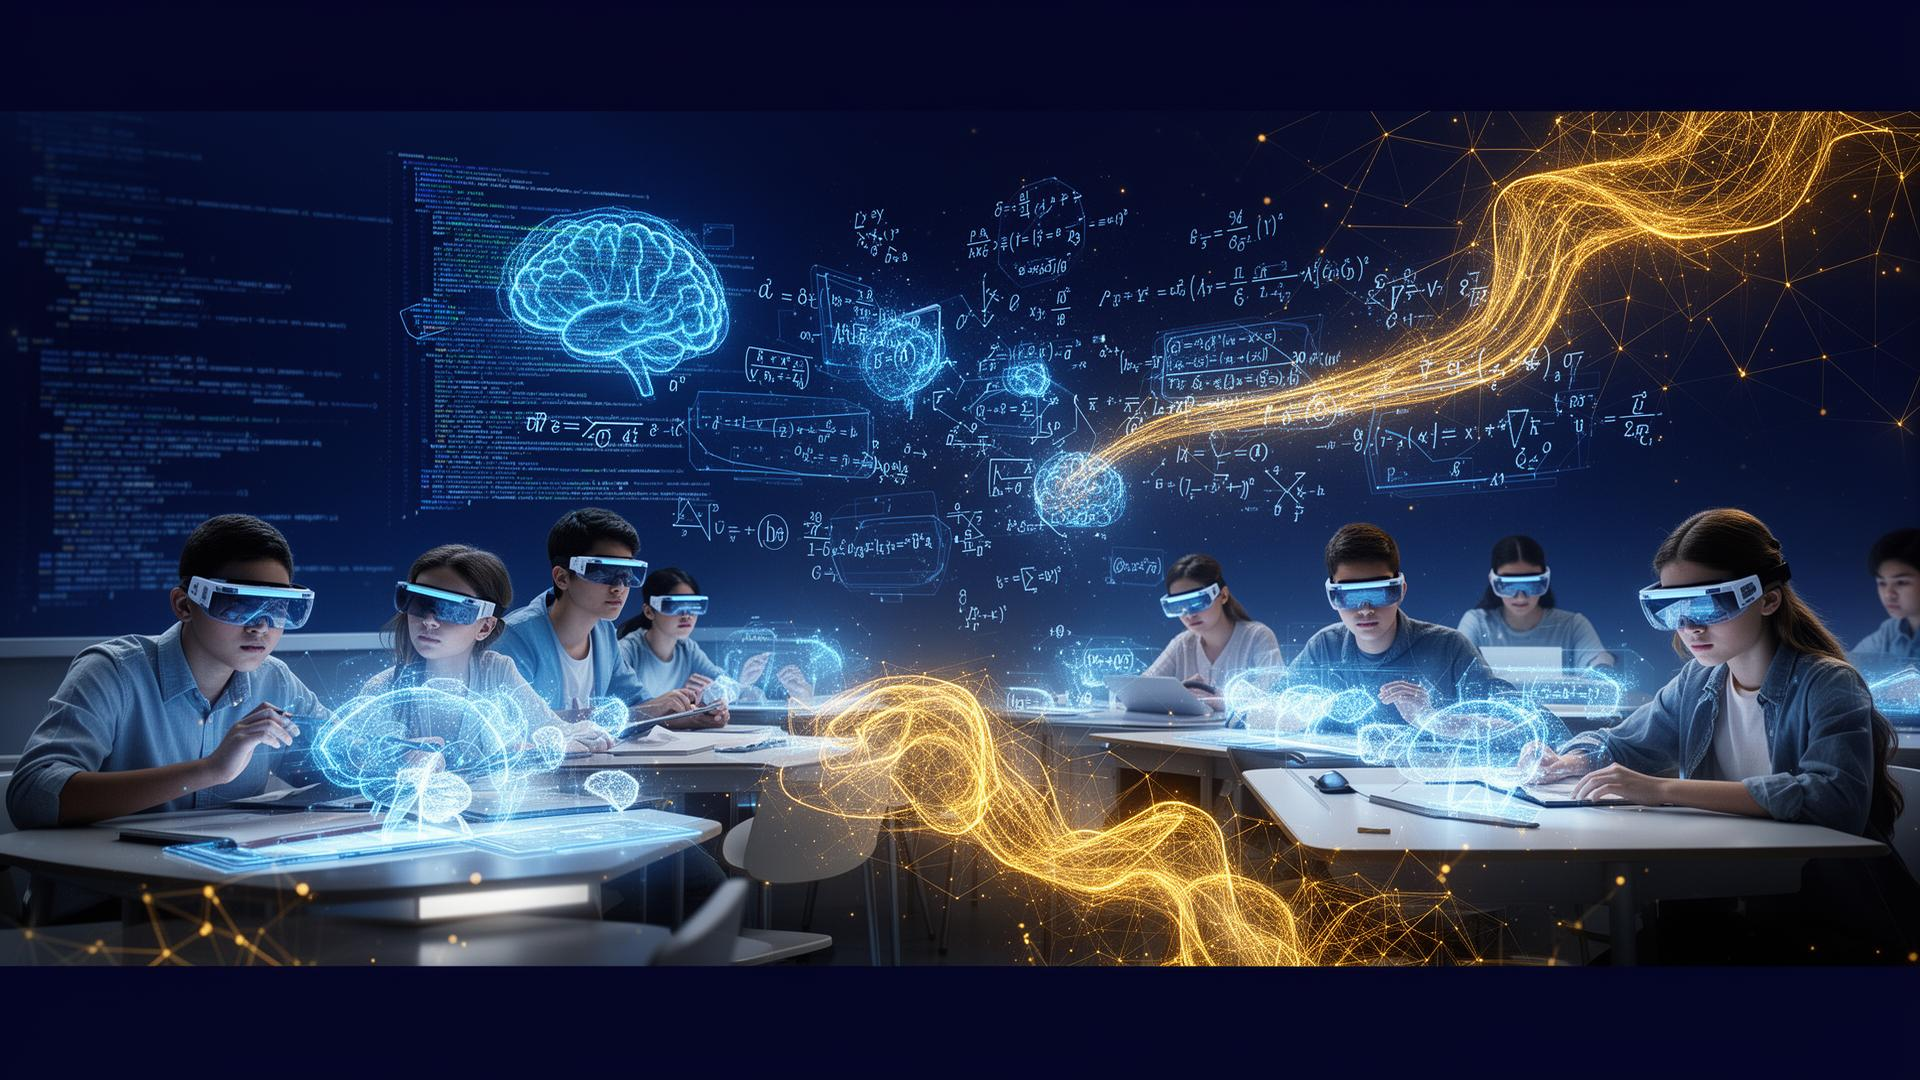
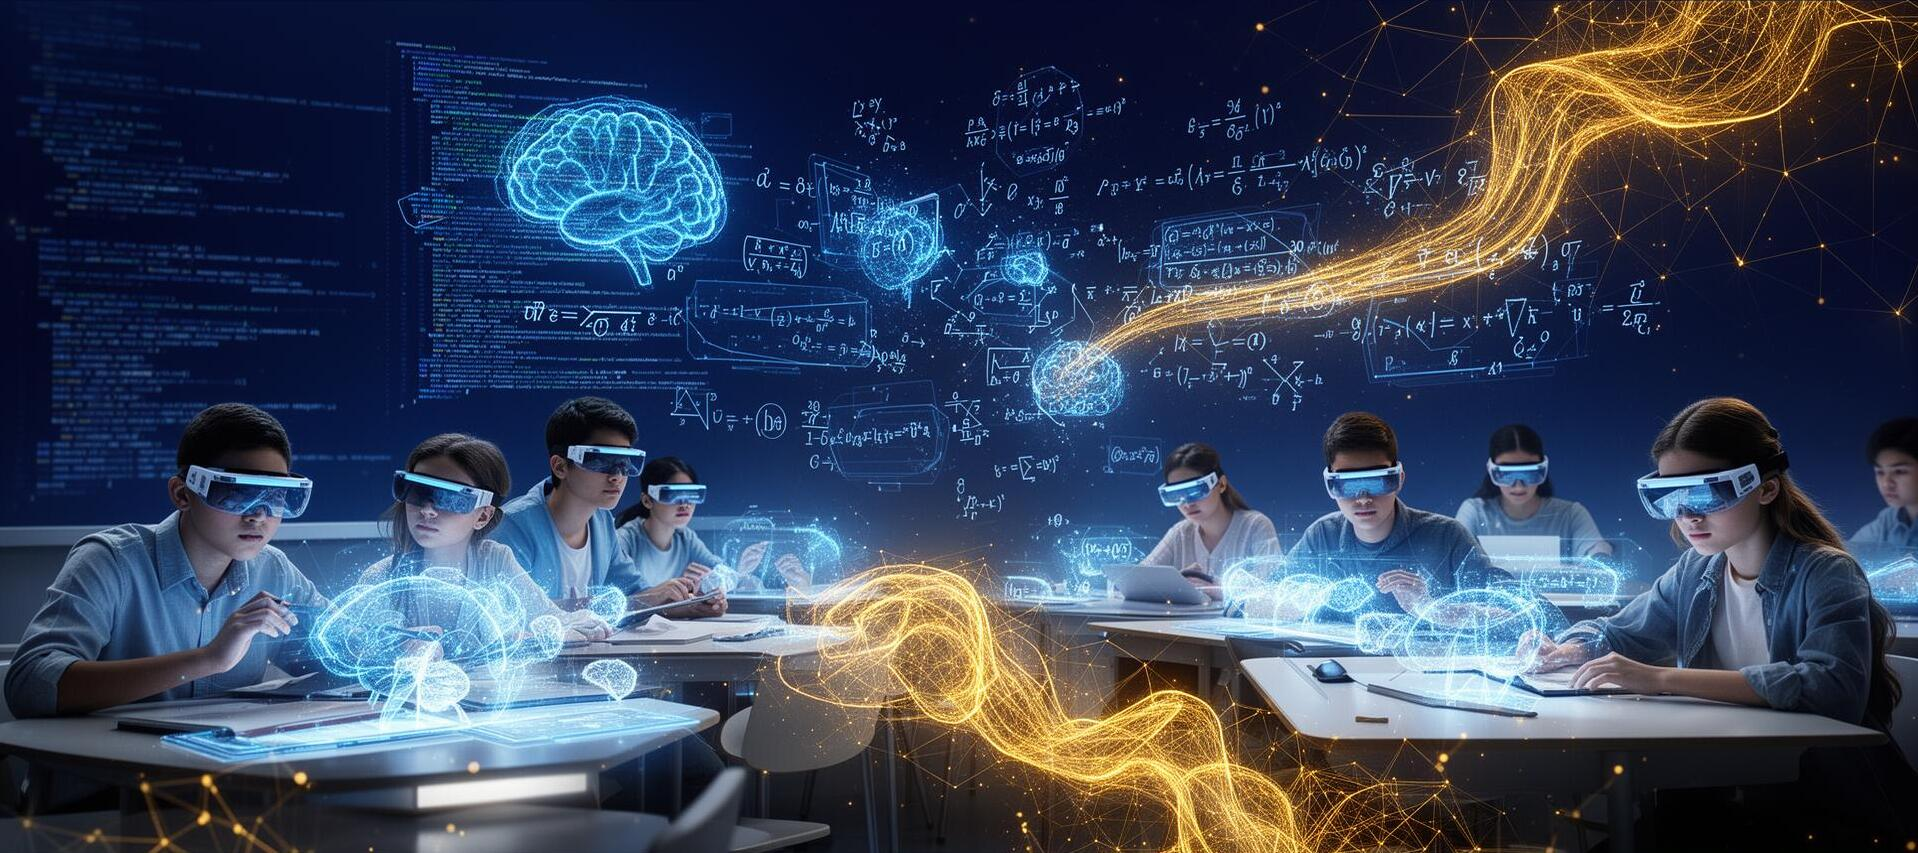
Fixed the Hero Section

diff --git a/src/pages/HomePage.tsx b/src/pages/HomePage.tsx
@@ -64,10 +64,10 @@ const HomePage = () => {
   return (
     <Layout>
       {/* Hero Section */}
-      <section className="relative -m-4 lg:-m-8 mb-0 overflow-hidden rounded-none">
+      <section className="relative -m-4 lg:-m-8 mb-0 overflow-hidden rounded-none min-h-[600px] lg:min-h-[700px]">
         {/* Background Image */}
         <div className="absolute inset-0 z-0">
-          <img src={heroBanner} alt="" className="w-full h-full object-cover" />
+          <img src={heroBanner} alt="" className="w-full h-full object-cover object-center" style={{ minHeight: '100%', minWidth: '100%' }} />
           <div className="absolute inset-0" style={{ background: "linear-gradient(135deg, hsl(220, 40%, 8%, 0.88), hsl(230, 50%, 15%, 0.75))" }} />
         </div>
 
